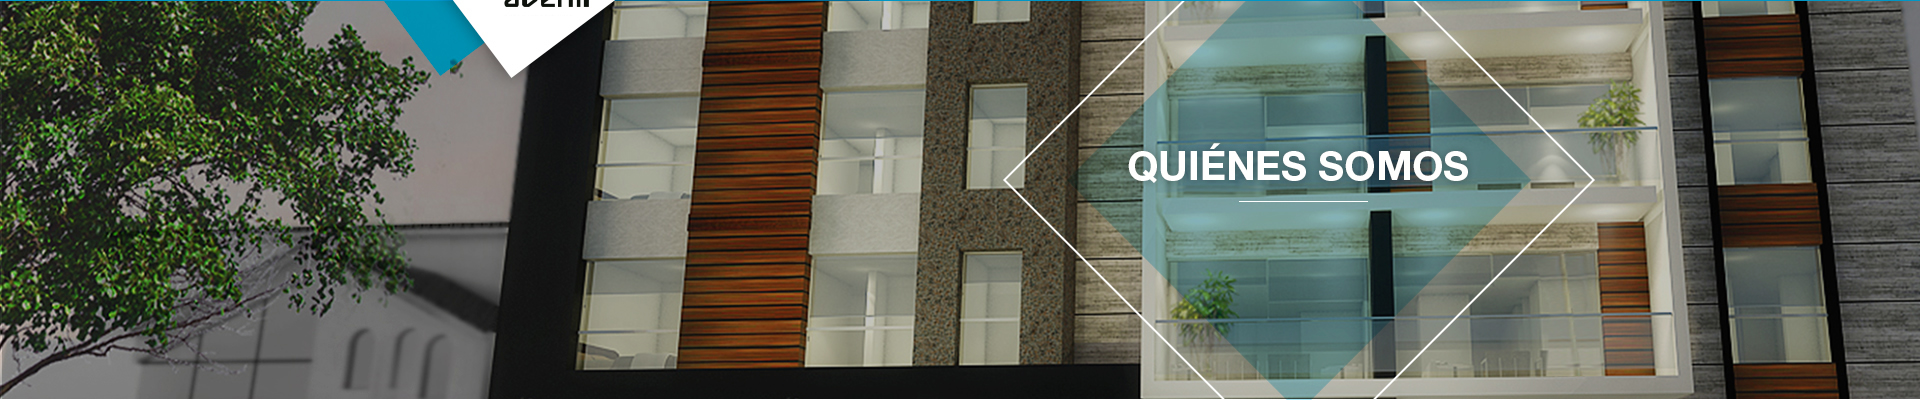
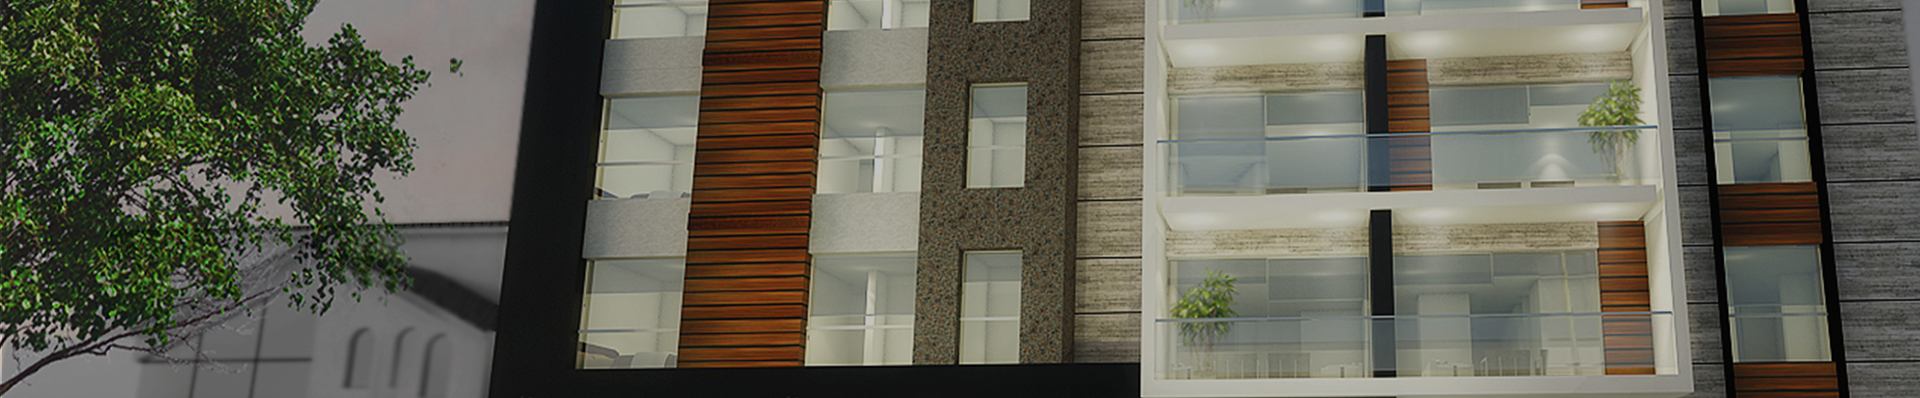
Quienes somos al 98%

diff --git a/css/interior/quienes_somos.css b/css/interior/quienes_somos.css
@@ -1,15 +1,66 @@
 #quienes_somos .quienes_portada .img_portada{background-image: url("../../img/interior/quienes-somos/quienes-somos-avenir.jpg");background-repeat: no-repeat;background-position: center;background-size: cover;height: 400px;width: 100%;}
-#quienes_somos .quienes_portada .container{color: #fff;position: relative;top: -260px;}
-#quienes_somos .quienes_portada h1{font-family: open_sansbold;font-size: 3em;float: right;margin: 0px 0px;margin-right: 5.3%;}
+#quienes_somos .quienes_portada .container{color: #fff;position: relative;top: -515px;}
+#quienes_somos .quienes_portada h1{font-family: open_sansbold;font-size: 3em;margin: 0px 0px;margin-top: 255px;text-align: center;}
+#quienes_somos .quienes_portada .img_content_title{background-image: url("../../img/interior/util/rectangulo_titulo.png");background-repeat: no-repeat;background-position: center;background-size: cover;height: 592px;position: absolute;right: 15px;width: 592px;}
 
-#quienes_somos .quienes_text p{color: #6d6d6d;font-family: open_sanslight;font-size: 17px;line-height: 28px;margin: 0 auto;text-align: center;width: 815px;}
+#quienes_somos .quienes_text{position: relative;z-index: 2;}
+#quienes_somos .quienes_text p{color: #6d6d6d;font-family: open_sanslight;font-size: 17px;line-height: 28px;margin: 6% auto 3% auto;text-align: center;width: 815px;}
 #quienes_somos .quienes_text p .sp_1{color: #1E96B9;}
 #quienes_somos .quienes_text p .sp_2,#quienes_somos .quienes_text p .sp_3{color: #fb5008}
 #quienes_somos .quienes_text p .sp_3{text-decoration: underline;}
 
-#quienes_somos .quienes_estrategica{background: rgba(0,105,126,0.7);color: #fff;;font-family: open_sanslight;min-height: 670px;}
-#quienes_somos .quienes_estrategica h2{font-family: open_sansbold}
-#quienes_somos .quienes_estrategica .img_estrategia{background-repeat: no-repeat;border: 1px solid #00bdff;margin: 0 auto;height: 231px;width: 231px;}
+#quienes_somos .quienes_estrategica{background-image: url("../../img/interior/quienes-somos/bg_mision_vision.png");background-position: center;background-repeat: no-repeat;color: #fff;;font-family: open_sanslight;min-height: 665px;position: relative;}
+#quienes_somos .quienes_estrategica h2{font-family: open_sansbold;font-size: 25px;}
+#quienes_somos .quienes_estrategica p{font-family: open_sanslight;font-size: 15px;}
+#quienes_somos .quienes_estrategica .img_estrategia{background-repeat: no-repeat;background-position: center center;border: 1px solid #00bdff;margin: 0 auto;height: 231px;width: 231px;}
 #quienes_somos .quienes_estrategica .img_mision_avenir{background-image: url("../../img/interior/quienes-somos/mision-avenir.jpg");}
 #quienes_somos .quienes_estrategica .img_vision_avenir{background-image: url("../../img/interior/quienes-somos/vision-avenir.jpg");}
-#quienes_somos .quienes_estrategica .container{padding: 15.5% 0%;}
+#quienes_somos .quienes_estrategica .container{padding-top: 210px;}
+
+#quienes_somos .quienes_videos{background-image: url("../../img/interior/quienes-somos/video_quienes.png");background-position: center;background-repeat: no-repeat;color: #fff;;font-family: open_sansbold;margin-top: -97px;min-height: 695px;}
+#quienes_somos .quienes_videos .bg_youtube{background-image: url("../../img/interior/quienes-somos/youtube_quienes.png");background-repeat: no-repeat;background-position: center;cursor: pointer;margin: 0 auto;min-height: 95px;width: 127px}
+#quienes_somos .quienes_videos .container{padding-top: 305px;text-align: center;}
+
+@media (max-width: 380px){
+
+}
+
+@media (max-width: 452px){
+	#quienes_somos .quienes_estrategica  .col-xs-6{width: 100%;}
+	#quienes_somos .quienes_estrategica .container{padding-top: 0px !important;}
+	#quienes_somos .quienes_estrategica .col-sm-12{top: 60px;}
+	#quienes_somos .quienes_estrategica .img_estrategia{height: 120px;}
+	#quienes_somos .quienes_estrategica p{font-size: 12.5px !important;}
+	#quienes_somos .quienes_estrategica h2,#quienes_somos  h3{font-size: 22px !important;}
+}
+
+@media (min-width: 453px) and (max-width: 480px){
+	#quienes_somos .quienes_estrategica .img_estrategia{height: 185px;}
+	#quienes_somos .quienes_estrategica .container{padding-top: 75px !important;}
+}
+
+@media (max-width: 582px){
+	#quienes_somos .quienes_estrategica .img_estrategia{width: initial !important;}
+	#quienes_somos .quienes_estrategica h2{font-size: 24px;}
+	#quienes_somos .quienes_estrategica p{font-size: 14px;}
+}
+
+@media (max-width: 992px) {
+	#quienes_somos .quienes_text p{width: 100%}
+
+	#quienes_somos .quienes_estrategica .img_estrategia{background-size: cover;width: 231px}
+	#quienes_somos .quienes_estrategica .col-sm-12{margin: 10px 0px;}
+	#quienes_somos .quienes_estrategica .container{padding-top: 88px}
+}
+
+@media (max-width: 640px){
+	#quienes_somos .quienes_portada .img_content_title{right: 0px;width: 100%;}
+}
+
+@media (max-width: 1024px){
+	
+}
+@media (min-width: 992px) and (max-width: 1200px){
+	#quienes_somos .quienes_estrategica .img_estrategia{background-size: cover;width: initial;}
+	#quienes_somos .quienes_estrategica .container{padding-top: 230px;}
+}

diff --git a/views/quienes-somos.html b/views/quienes-somos.html
@@ -1,4 +1,7 @@
 <link rel="stylesheet" href="css/interior/quienes_somos.css" type="text/css" />
+<div class="bg_popup video_quienes_somos display-none">
+	<div class="close_popup">X</div>
+</div>
 <section id="quienes_somos" class="pos_interior">
 	<section class="quienes_portada">
 		<div class="img_portada"></div>
@@ -8,33 +11,39 @@
 			</div>
 			</section>
 	</section>
-	<section class="quienes_text container">
-		<p><span class="sp_1">AVENIR Grupo Inmobiliario&reg;</span> es el resultado de la visión empresarial de un grupo de inversionistas y profesionales cuyo objetivo es aportar a la calidad de la vida de las familias ofreciéndoles la <span class="sp_2">viviencia deseada por su ubicación</span>, diseñó, calidad y precio justo.
-		Para conseguirlo cuenta con el sólido respaldo de las cuatro décadas de experiencias <span class="sp_3">CONCYSSA S.A.</span> en la construcción y gestión de proyectos.</p>
-	</section>
-	<section class="quienes_estrategica">
-		<div class="img_top_estrategia"></div>
-		<div class="bg_img_estrategia"></div>
-		<section class="container">
-			<section class="col-md-6">
-				<div class="col-md-6">
-					<div class="img_mision_avenir img_estrategia"></div>
-				</div>
-				<div class="col-md-6">
-					<h2>MISIÓN</h2>
-					<p>Satisfacer las necesidades de nuestros clientes, ofreciéndoles viviendas de calidad, a precios competitivos, entregadas oportunamente y con un buen servicio post venta</p>
-				</div>
+	<section class="quienes_content">
+		<section class="quienes_text container">
+			<p><span class="sp_1">AVENIR Grupo Inmobiliario&reg;</span> es el resultado de la visión empresarial de un grupo de inversionistas y profesionales cuyo objetivo es aportar a la calidad de la vida de las familias ofreciéndoles la <span class="sp_2">viviencia deseada por su ubicación</span>, diseñó, calidad y precio justo.
+			Para conseguirlo cuenta con el sólido respaldo de las cuatro décadas de experiencias <span class="sp_3">CONCYSSA S.A.</span> en la construcción y gestión de proyectos.</p>
+		</section>
+		<section class="quienes_estrategica">
+			<div class="bg_img_estrategia"></div>
+			<section class="container">
+				<section class="col-xs-12 col-sm-12 col-md-6">
+					<div class="col-xs-6 col-sm-6 col-md-6">
+						<div class="img_mision_avenir img_estrategia"></div>
+					</div>
+					<div class="col-xs-6 col-sm-6 col-md-6">
+						<h2>MISIÓN</h2>
+						<p>Satisfacer las necesidades de nuestros clientes, ofreciéndoles viviendas de calidad, a precios competitivos, entregadas oportunamente y con un buen servicio post venta</p>
+					</div>
+				</section>
+				<section class="col-xs-12 col-sm-12 col-md-6">
+					<div class="col-xs-6 col-sm-6 col-md-6">
+						<div class="img_vision_avenir img_estrategia"></div>
+					</div>
+					<div class="col-xs-6 col-sm-6 col-md-6">
+						<h2>VISIÓN</h2>
+						<p>Ser reconocidos como un Grupo inmobiliario sólido, confiable e innovador, sustentao en el respaldo de sus inversionistas, la capacidad de sus colaboradores y el conocimiento del mercado en el que opera.</p>
+					</div>
+				</section>
 			</section>
-			<section class="col-md-6">
-				<div class="col-md-6">
-					<div class="img_vision_avenir img_estrategia"></div>
-				</div>
-				<div class="col-md-6">
-					<h2>VISIÓN</h2>
-					<p>Ser reconocidos como un Grupo inmobiliario sólido, confiable e innovador, sustentao en el respaldo de sus inversionistas, la capacidad de sus colaboradores y el conocimiento del mercado en el que opera.</p>
-				</div>
+		</section>
+		<section class="quienes_videos">
+			<section class="container">
+				<div class="bg_youtube play_c"></div>
+				<h3>VIDEO INSTITUCIONAL</h3>
 			</section>
 		</section>
 	</section>
-	<section class="quienes_videos"></section>
 </section>

diff --git a/css/styles.css b/css/styles.css
@@ -397,5 +397,7 @@ margin-bottom: 30px;
 /*------------------------*/
 /*-----INTERIOR BASE-------*/
 /*------------------------*/
-.pos_interior{margin-top: -20px;}
-
+.popup_bg{background-color: rgba(0,0,0,0.7);left: 0;height: 100%;position: fixed;top: 0;width: 100%;z-index: 9999;}
+.display-none{display: none;}
+.bg_popup{background-color: #fff;position: fixed;z-index: 99999;height: 350px;left: 50%;margin-left: -300px;margin-top: -175px;top: 50%;width: 600px;}
+.bg_popup .close_popup{background-color: #000;color: #fff;cursor: pointer;float: right;margin-top: -36px;padding: 8px 12px;}

diff --git a/index.html b/index.html
@@ -27,6 +27,7 @@
 
 </head>
 <body>
+<div class="popup_bg display-none"></div>
 	<nav class="navbar navbar-default navbar-top" ng-controller="HeaderController">
       <div class="container">
         <header class="navbar-header">
@@ -86,6 +87,6 @@
       $('.bxslider').bxSlider();
     });
   </script>
-  
+  <script src="js/avenir.js"></script>
 </body>
 </html>

diff --git a/js/avenir.js b/js/avenir.js
@@ -1,0 +1,4 @@
+$('.play_c').click(function(){
+	$('.popup_bg').removeClass('display-none');
+	$('.bg_popup').removeClass('display-none');
+});
